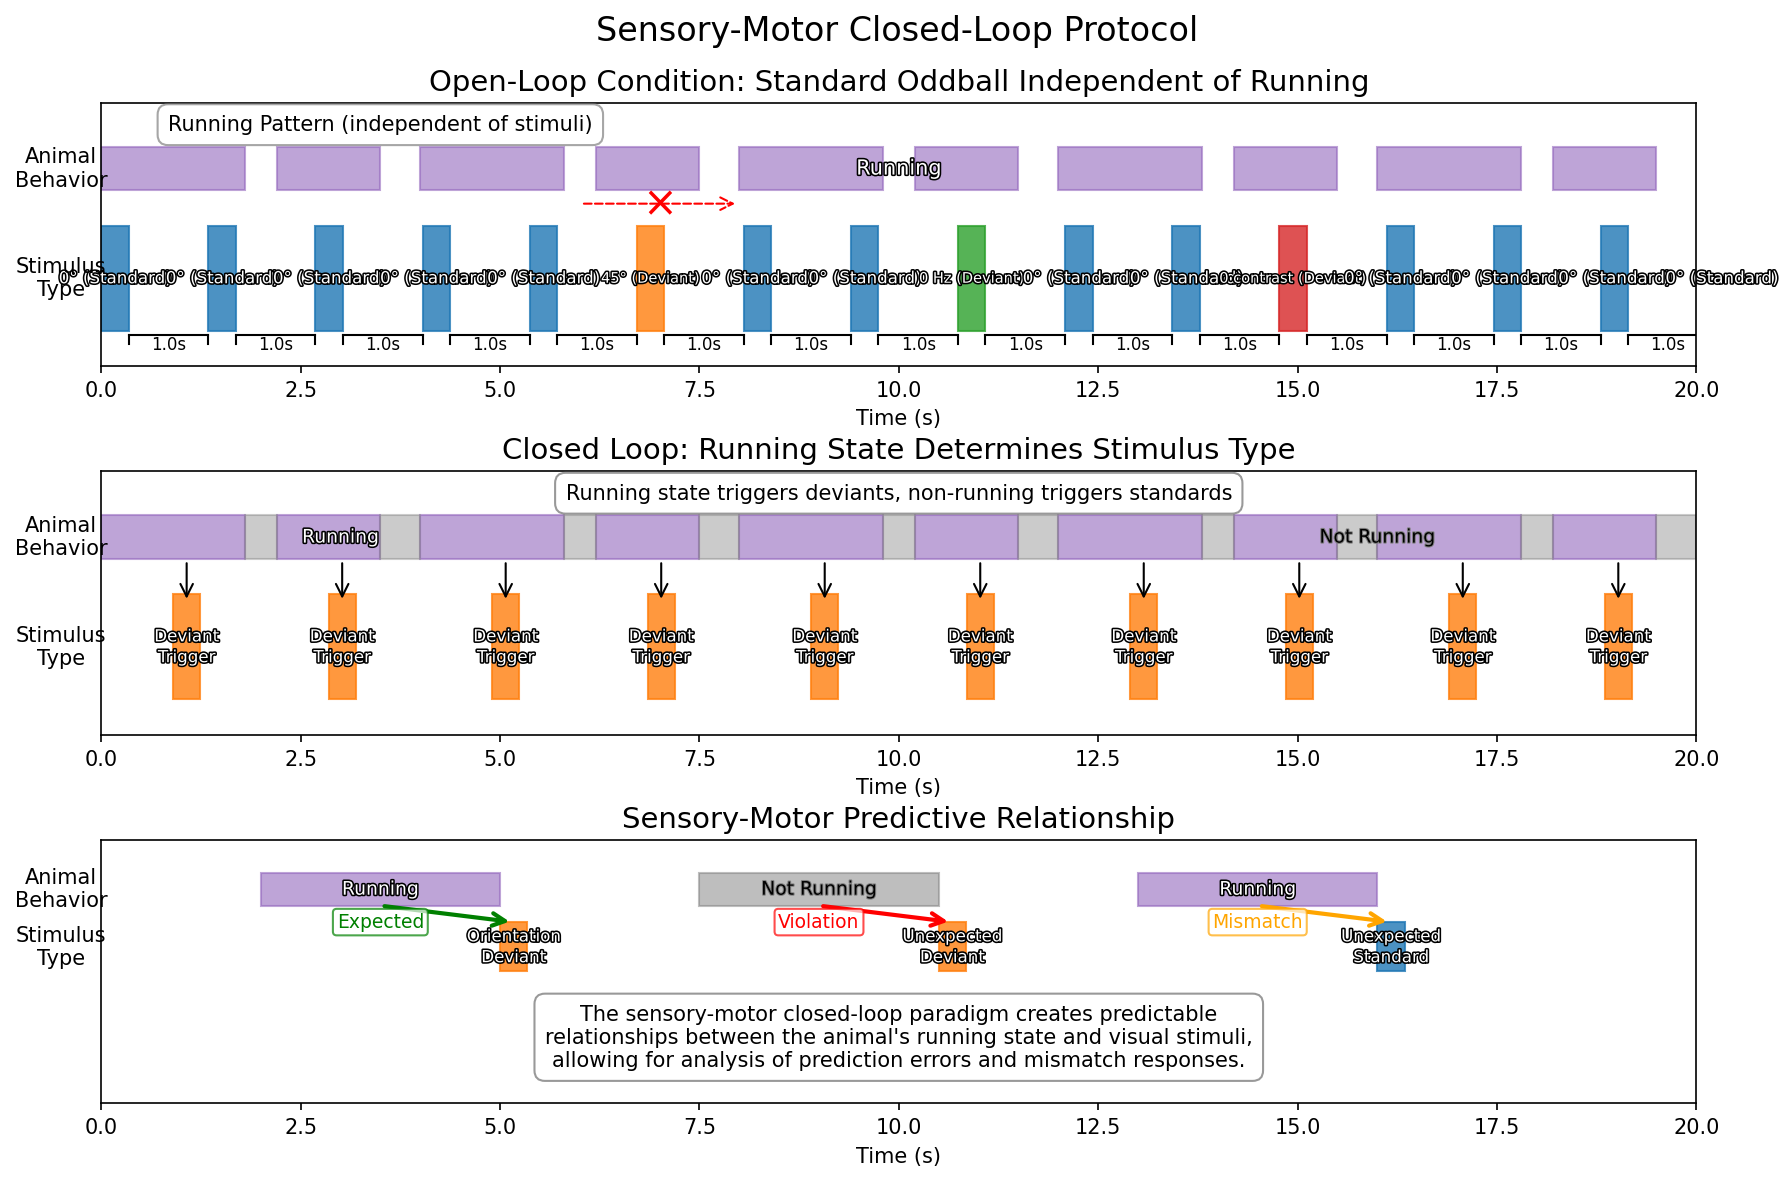
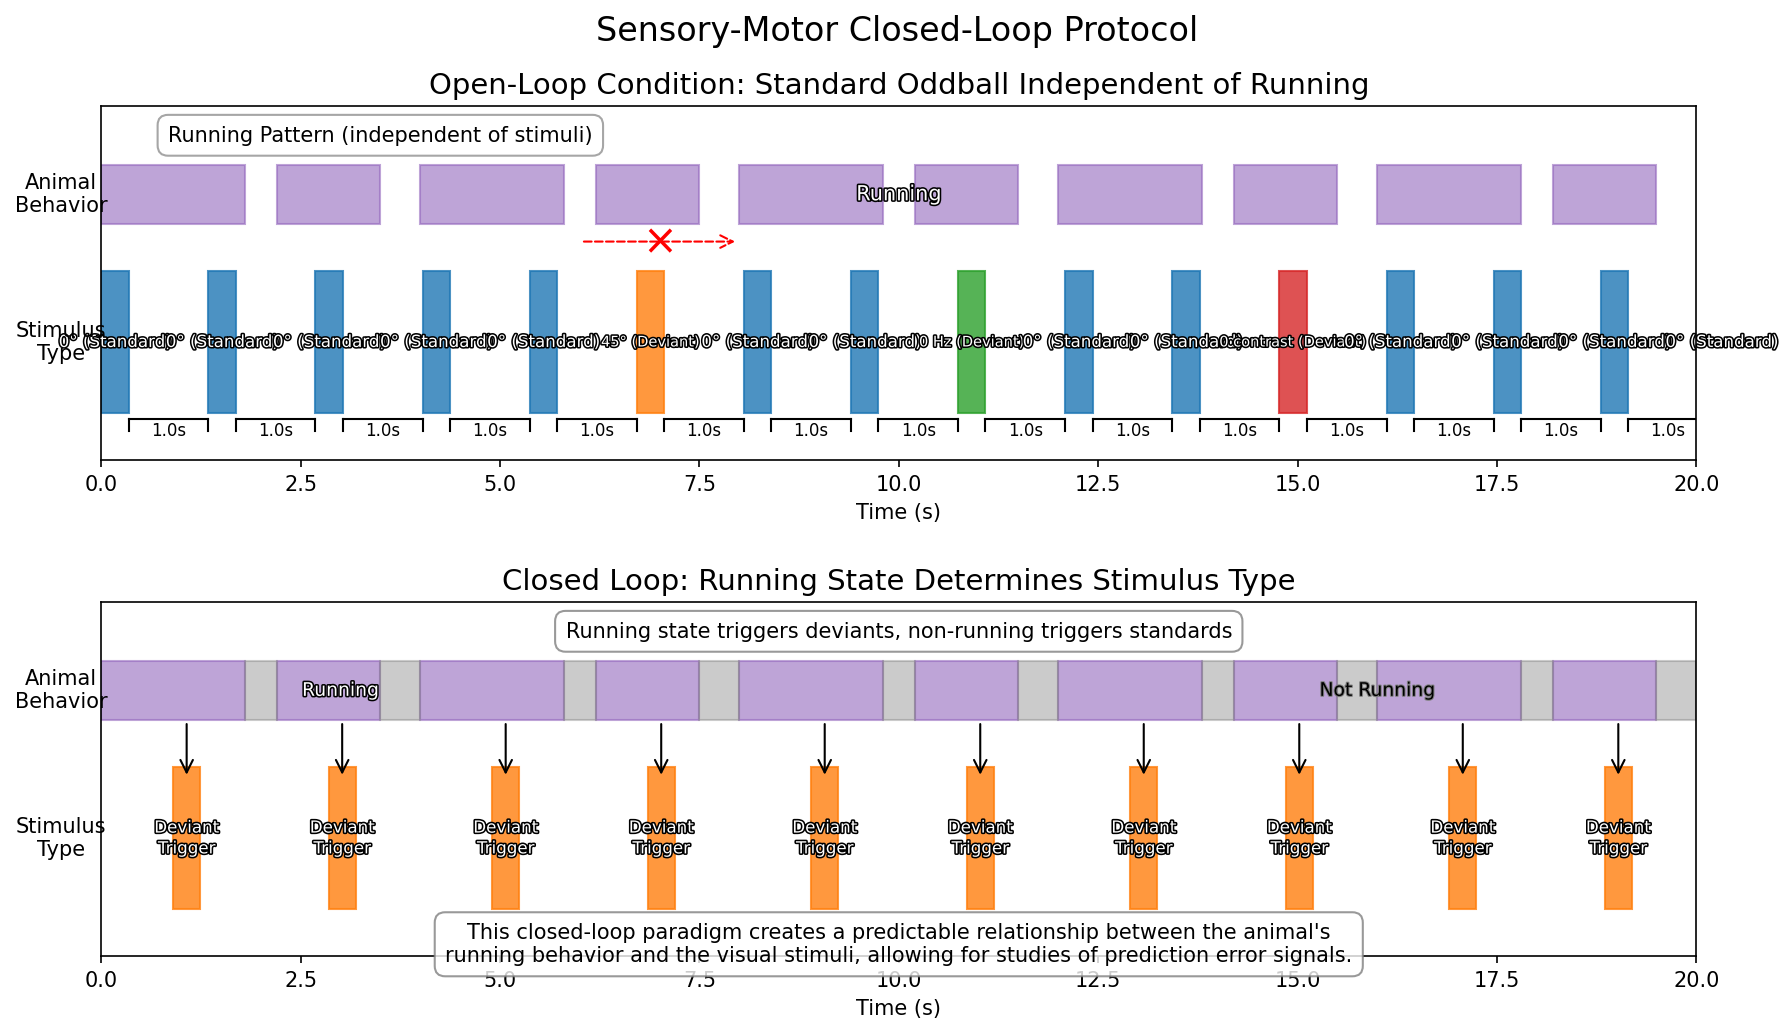
Fix diagram

diff --git a/code/utils/generate_sensory_motor_diagram.py b/code/utils/generate_sensory_motor_diagram.py
@@ -2,6 +2,7 @@
 """
 Generate a diagram illustrating the sensory-motor closed-loop protocol.
 This script creates a visualization of the different stimulus blocks and their relationship to motor activity.
+Simplified version showing only open and closed loop conditions.
 """
 
 import matplotlib.pyplot as plt
@@ -11,8 +12,8 @@ from matplotlib.patches import Rectangle, Circle, FancyArrowPatch
 from matplotlib.lines import Line2D
 import matplotlib.patheffects as path_effects
 
-# Create figure with multiple subplots
-fig = plt.figure(figsize=(12, 8))
+# Create figure with multiple subplots - now with just 2 rows
+fig = plt.figure(figsize=(12, 7))
 fig.suptitle('Sensory-Motor Closed-Loop Protocol', fontsize=16)
 
 # Define colors for different stimulus types
@@ -28,7 +29,7 @@ colors = {
 }
 
 # 1. Open-Loop Condition
-ax1 = plt.subplot(3, 1, 1)
+ax1 = plt.subplot(2, 1, 1)
 ax1.set_title('Open-Loop Condition: Standard Oddball Independent of Running', fontsize=14)
 ax1.set_xlim(0, 20)
 ax1.set_ylim(0, 6)
@@ -108,7 +109,7 @@ ax1.add_patch(arrow)
 ax1.text(7, 3.7, "×", color='red', fontsize=20, ha='center', va='center')
 
 # 2. Closed Loop: Running-Triggered Oddball
-ax2 = plt.subplot(3, 1, 2)
+ax2 = plt.subplot(2, 1, 2)
 ax2.set_title('Closed Loop: Running State Determines Stimulus Type', fontsize=14)
 ax2.set_xlim(0, 20)
 ax2.set_ylim(0, 6)
@@ -187,89 +188,9 @@ ax2.text(10, 5.5, "Running state triggers deviants, non-running triggers standar
         ha='center', va='center', fontsize=10, 
         bbox=dict(facecolor='white', alpha=0.8, edgecolor='gray', boxstyle='round,pad=0.5'))
 
-# 3. Predictive Relationship
-ax3 = plt.subplot(3, 1, 3)
-ax3.set_title('Sensory-Motor Predictive Relationship', fontsize=14)
-ax3.set_xlim(0, 20)
-ax3.set_ylim(0, 8)
-ax3.set_yticks([])
-ax3.set_xlabel('Time (s)')
-
-# Three conditions: expected, violated, and mismatch
-
-# 1. Expected condition - running leads to orientation change
-expected_time = 2
-rect_running = Rectangle((expected_time, 6), 3, 1, color=colors['running'], alpha=0.6)
-ax3.add_patch(rect_running)
-text = ax3.text(expected_time + 1.5, 6.5, "Running", ha='center', va='center', fontsize=9, color='white')
-text.set_path_effects([path_effects.withStroke(linewidth=1.5, foreground='black')])
-
-# Draw orientation deviant that follows running
-rect_deviant = Rectangle((expected_time + 3, 4), stim_duration, 1.5, color=colors['orientation_deviant'], alpha=0.8)
-ax3.add_patch(rect_deviant)
-text = ax3.text(expected_time + 3 + stim_duration/2, 4.75, "Orientation\nDeviant", 
-                ha='center', va='center', fontsize=8, color='white')
-text.set_path_effects([path_effects.withStroke(linewidth=1.5, foreground='black')])
-
-# Draw arrow connecting running to deviant
-arrow1 = FancyArrowPatch((expected_time + 1.5, 6), (expected_time + 3 + stim_duration/2, 5.5), 
-                       arrowstyle='->', mutation_scale=15, color='green', linewidth=2)
-ax3.add_patch(arrow1)
-# Add labeled text with background for better visibility
-ax3.text(expected_time + 1.5, 5.5, "Expected", ha='center', va='center', fontsize=9, color='green',
-        bbox=dict(facecolor='white', alpha=0.7, edgecolor='green', boxstyle='round,pad=0.2'))
-
-# 2. Violation condition - no running but orientation changes
-violation_time = 7.5
-rect_not_running = Rectangle((violation_time, 6), 3, 1, color=colors['not_running'], alpha=0.5)
-ax3.add_patch(rect_not_running)
-text = ax3.text(violation_time + 1.5, 6.5, "Not Running", ha='center', va='center', fontsize=9)
-text.set_path_effects([path_effects.withStroke(linewidth=1, foreground='gray')])
-
-# Draw orientation deviant that should not follow non-running
-rect_unexpected_deviant = Rectangle((violation_time + 3, 4), stim_duration, 1.5, color=colors['orientation_deviant'], alpha=0.8)
-ax3.add_patch(rect_unexpected_deviant)
-text = ax3.text(violation_time + 3 + stim_duration/2, 4.75, "Unexpected\nDeviant", 
-                ha='center', va='center', fontsize=8, color='white')
-text.set_path_effects([path_effects.withStroke(linewidth=1.5, foreground='black')])
-
-# Draw arrow connecting violation
-arrow2 = FancyArrowPatch((violation_time + 1.5, 6), (violation_time + 3 + stim_duration/2, 5.5), 
-                       arrowstyle='->', mutation_scale=15, color='red', linewidth=2)
-ax3.add_patch(arrow2)
-# Add labeled text with background for better visibility
-ax3.text(violation_time + 1.5, 5.5, "Violation", ha='center', va='center', fontsize=9, color='red',
-        bbox=dict(facecolor='white', alpha=0.7, edgecolor='red', boxstyle='round,pad=0.2'))
-
-# 3. Mismatch condition - running but no orientation change
-mismatch_time = 13
-rect_running2 = Rectangle((mismatch_time, 6), 3, 1, color=colors['running'], alpha=0.6)
-ax3.add_patch(rect_running2)
-text = ax3.text(mismatch_time + 1.5, 6.5, "Running", ha='center', va='center', fontsize=9, color='white')
-text.set_path_effects([path_effects.withStroke(linewidth=1.5, foreground='black')])
-
-# Draw standard that should not follow running
-rect_unexpected_standard = Rectangle((mismatch_time + 3, 4), stim_duration, 1.5, color=colors['standard'], alpha=0.8)
-ax3.add_patch(rect_unexpected_standard)
-text = ax3.text(mismatch_time + 3 + stim_duration/2, 4.75, "Unexpected\nStandard", 
-                ha='center', va='center', fontsize=8, color='white')
-text.set_path_effects([path_effects.withStroke(linewidth=1.5, foreground='black')])
-
-# Draw arrow connecting mismatch
-arrow3 = FancyArrowPatch((mismatch_time + 1.5, 6), (mismatch_time + 3 + stim_duration/2, 5.5), 
-                       arrowstyle='->', mutation_scale=15, color='orange', linewidth=2)
-ax3.add_patch(arrow3)
-# Add labeled text with background for better visibility
-ax3.text(mismatch_time + 1.5, 5.5, "Mismatch", ha='center', va='center', fontsize=9, color='orange',
-        bbox=dict(facecolor='white', alpha=0.7, edgecolor='orange', boxstyle='round,pad=0.2'))
-
-# Add labels for running and stimuli
-ax3.text(-0.5, 6.5, "Animal\nBehavior", ha='center', va='center', fontsize=10)
-ax3.text(-0.5, 4.75, "Stimulus\nType", ha='center', va='center', fontsize=10)
-
-# Add explanatory text for overall paradigm with background box
-ax3.text(10, 2, "The sensory-motor closed-loop paradigm creates predictable\nrelationships between the animal's running state and visual stimuli,\nallowing for analysis of prediction errors and mismatch responses.", 
-        ha='center', va='center', fontsize=10, 
+# Add a simple explanatory box at the bottom
+ax2.text(10, 0.2, "This closed-loop paradigm creates a predictable relationship between the animal's\nrunning behavior and the visual stimuli, allowing for studies of prediction error signals.", 
+        ha='center', va='center', fontsize=10,
         bbox=dict(facecolor='white', alpha=0.8, edgecolor='gray', boxstyle='round,pad=0.5'))
 
 # Adjust layout
